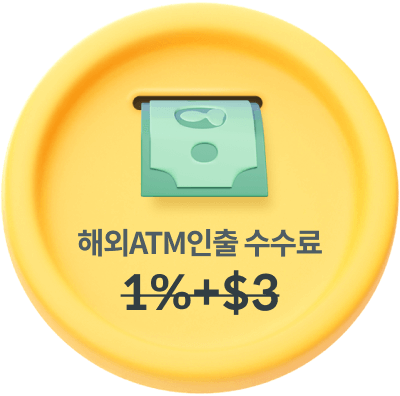
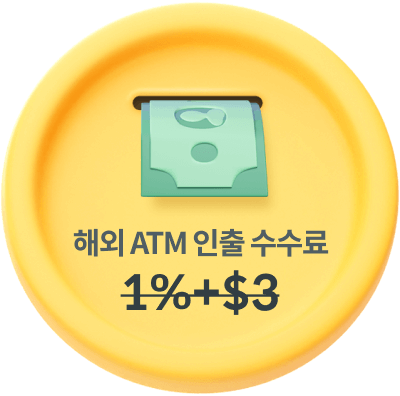
UTL_001

Changed region(s): [[0.18, 0.5758, 0.84, 0.6667]]

diff --git a/html/global/UTL/UTL_001_inapp.html b/html/global/UTL/UTL_001_inapp.html
@@ -52,7 +52,7 @@
 
     <div id="contents" class="wrap_contents">
       <div class="contents">
-        <section data-roll="UTL">
+        <section data-roll="UTL" class="inapp">
           <div class="section_cont guide_hanamoney_tit">
             <p class="logo_hanamoney_box"></p>
             <p class="txt">쓸수록 쌓이는 행복한 생활머니</p>
@@ -115,14 +115,14 @@
           <div class="section_cont guide_hanamoney_3">
             <div class="wrap_tit">
               <p class="label_fill_white">트래블로그 서비스</p>
-              <h2 class="tit_section_center">오직 하나머니에서만<br><em>무료환전에<br>해외 이용수수료 면제</em></h2>
+              <h2 class="tit_section_center">오직 하나머니에서만<br><em>무료환전에<br>해외 이용 수수료 면제</em></h2>
               <p class="txt_sub">국내 가맹점 결제 시 0.3% 하나머니 적립</p>
             </div>
             <div class="swiper-container utl_charge_swiper">
               <ul class="swiper-wrapper">
                 <li class="swiper-slide"><img src="../../../images/global/img_utl_charge_1.png" alt="환전수수료 1.75%"></li>
-                <li class="swiper-slide"><img src="../../../images/global/img_utl_charge_2.png" alt="해외가맹점 이용수수료 1%+$0.5"></li>
-                <li class="swiper-slide"><img src="../../../images/global/img_utl_charge_3.png" alt="해외ATM인출 수수료 1%+$3"></li>
+                <li class="swiper-slide"><img src="../../../images/global/img_utl_charge_2.png" alt="해외 가맹점 이용수수료 1%+$0.5"></li>
+                <li class="swiper-slide"><img src="../../../images/global/img_utl_charge_3.png" alt="해외 ATM 인출 수수료 1%+$3"></li>
               </ul>
             </div>
             <div class="wrap_btn type_full">

diff --git a/html/global/UTL/UTL_001.html b/html/global/UTL/UTL_001.html
@@ -91,14 +91,14 @@
           <div class="section_cont guide_hanamoney_3">
             <div class="wrap_tit">
               <p class="label_fill_white">트래블로그 서비스</p>
-              <h2 class="tit_section_center">오직 하나머니에서만<br><em>무료환전에<br>해외 이용수수료 면제</em></h2>
+              <h2 class="tit_section_center">오직 하나머니에서만<br><em>무료환전에<br>해외 이용 수수료 면제</em></h2><!-- 22.05.27 문구변경 -->
               <p class="txt_sub">국내 가맹점 결제 시 0.3% 하나머니 적립</p>
             </div>
             <div class="swiper-container utl_charge_swiper">
               <ul class="swiper-wrapper">
                 <li class="swiper-slide"><img src="../../../images/global/img_utl_charge_1.png" alt="환전수수료 1.75%"></li>
-                <li class="swiper-slide"><img src="../../../images/global/img_utl_charge_2.png" alt="해외가맹점 이용수수료 1%+$0.5"></li>
-                <li class="swiper-slide"><img src="../../../images/global/img_utl_charge_3.png" alt="해외ATM인출 수수료 1%+$3"></li>
+                <li class="swiper-slide"><img src="../../../images/global/img_utl_charge_2.png" alt="해외가맹점 이용수수료 1%+$0.5"></li><!-- 22.05.27 문구변경 -->
+                <li class="swiper-slide"><img src="../../../images/global/img_utl_charge_3.png" alt="해외ATM인출 수수료 1%+$3"></li><!-- 22.05.27 문구변경 -->
               </ul>
             </div>
             <div class="wrap_btn type_full">

diff --git a/html/global/UTL/UTL_001_mWeb.html b/html/global/UTL/UTL_001_mWeb.html
@@ -117,14 +117,14 @@
           <div class="section_cont guide_hanamoney_3">
             <div class="wrap_tit">
               <p class="label_fill_white">트래블로그 서비스</p>
-              <h2 class="tit_section_center">오직 하나머니에서만<br><em>무료환전에<br>해외 이용수수료 면제</em></h2>
+              <h2 class="tit_section_center">오직 하나머니에서만<br><em>무료환전에<br>해외 이용 수수료 면제</em></h2>
               <p class="txt_sub">국내 가맹점 결제 시 0.3% 하나머니 적립</p>
             </div>
             <div class="swiper-container utl_charge_swiper">
               <ul class="swiper-wrapper">
                 <li class="swiper-slide"><img src="../../../images/global/img_utl_charge_1.png" alt="환전수수료 1.75%"></li>
-                <li class="swiper-slide"><img src="../../../images/global/img_utl_charge_2.png" alt="해외가맹점 이용수수료 1%+$0.5"></li>
-                <li class="swiper-slide"><img src="../../../images/global/img_utl_charge_3.png" alt="해외ATM인출 수수료 1%+$3"></li>
+                <li class="swiper-slide"><img src="../../../images/global/img_utl_charge_2.png" alt="해외 가맹점 이용 수수료 1%+$0.5"></li>
+                <li class="swiper-slide"><img src="../../../images/global/img_utl_charge_3.png" alt="해외 ATM 인출 수수료 1%+$3"></li>
               </ul>
             </div>
           </div>

diff --git a/html/hmui/guide/globalPageList.html b/html/hmui/guide/globalPageList.html
@@ -140,7 +140,7 @@ var menuList = [
   {'group':'', 'code':'GSP','depth1':'외화 하나머니 소개','name':'트래블로그 혜택 안내','pageid':'GSP_002', 'status':'완료', 'date':'22.05.20', 'remarks':''},
 
 
-  {'group':'Util', 'code':'UTL','depth1':'이용안내','name':'하나머니 이용안내','pageid':'UTL_001', 'status':'완료', 'date':'22.05.20', 'remarks':''},
+  {'group':'Util', 'code':'UTL','depth1':'이용안내','name':'하나머니 이용안내','pageid':'UTL_001', 'status':'완료', 'date':'22.05.20', 'remarks':'<span>-22.05.27 문구변경</span>'},
   {'group':'', 'code':'UTL','depth1':'','name':'하나머니 이용안내-mWeb','pageid':'UTL_001_mWeb', 'status':'확인중', 'date':'', 'remarks':''},
   {'group':'', 'code':'UTL','depth1':'','name':'하나머니 이용안내-inapp','pageid':'UTL_001_inapp', 'status':'확인중', 'date':'', 'remarks':''},
   {'group':'', 'code':'UTL','depth1':'전체메뉴','name':'전체메뉴','pageid':'UTL_101', 'status':'X', 'date':'', 'remarks':'Native'},

diff --git a/css/global/contents.css b/css/global/contents.css
@@ -2059,6 +2059,9 @@
 .section_cont.guide_hanamoney_6.transform::before {
   animation: scalePop 0.3s cubic-bezier(0.24, 0, 0.5, 1) forwards, floatwithScale 6s 0.5s ease-in-out infinite;
 }
+.inapp .section_cont.guide_hanamoney_tit {
+  padding-top: 0;
+}
 
 @supports ((-webkit-filter:none) or (filter:none)) {
   .vdb_swiper .swiper-slide.swiper-slide-prev {
